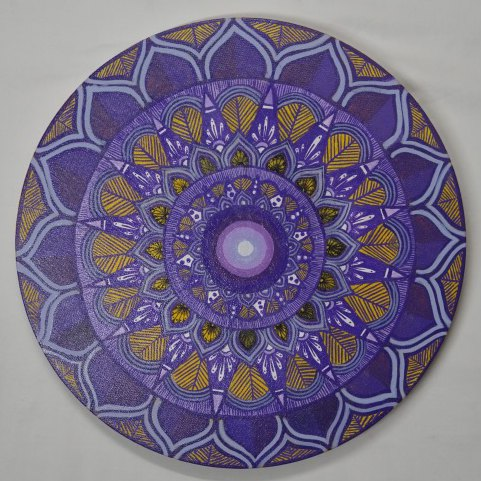
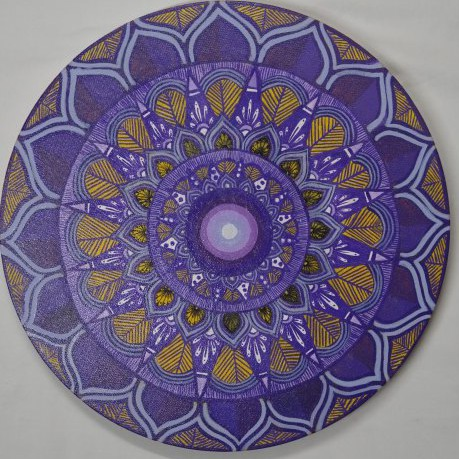
Gallery: trim white/grey margins from images, tighter frames, bigger zoom view, 3+3 art rows

diff --git a/index.html b/index.html
@@ -126,13 +126,13 @@
         <p class="gallery__intro">Through my paintings, I weave dreams into reality and transform emotions into art, expressing what words cannot. Charcoal, acrylic, watercolor and gouache; colour as a language, and mandalas as meditation.</p>
         <div class="g-row" role="list">
           <button type="button" style="--ar:1.000" class="g-item g-round" data-group="art" data-cap="Mandala" data-desc="Mandalas are my form of meditation: a symbol of unity and the circle of life." aria-label="View larger: Mandala"><img src="assets/gallery/mandala-disc.jpg" alt="Mandala on a round panel" loading="lazy" /></button>
-          <button type="button" style="--ar:0.509" class="g-item" data-group="art" data-cap="Mandalas, colour-blocked" data-desc="Contrasting patterns stand for the countless paths we take, which together make one emotional journey." aria-label="View larger: Mandalas, colour-blocked"><img src="assets/gallery/mandala-canvas.jpg" alt="Mandalas on a colour-blocked canvas" loading="lazy" /></button>
+          <button type="button" style="--ar:0.496" class="g-item" data-group="art" data-cap="Mandalas, colour-blocked" data-desc="Contrasting patterns stand for the countless paths we take, which together make one emotional journey." aria-label="View larger: Mandalas, colour-blocked"><img src="assets/gallery/mandala-canvas.jpg" alt="Mandalas on a colour-blocked canvas" loading="lazy" /></button>
           <button type="button" style="--ar:1.344" class="g-item" data-group="art" data-cap="Abstract in blue and gold" data-desc="Colour as a language for emotion. Blue stands for tranquility." aria-label="View larger: Abstract in blue and gold"><img src="assets/gallery/abstract-blue-gold.jpg" alt="Abstract painting in blue, grey and gold" loading="lazy" /></button>
-          <button type="button" style="--ar:0.790" class="g-item" data-group="art" data-cap="Vortex" data-desc="Tranquility in blue, pulled into a spiral." aria-label="View larger: Vortex"><img src="assets/gallery/vortex.jpg" alt="Abstract blue vortex painting" loading="lazy" /></button>
         </div>
         <div class="g-row" role="list">
-          <button type="button" style="--ar:0.705" class="g-item" data-group="art" data-cap="Tapasya" data-desc="Charcoal. A happy girl drawn in black and white, to show the contrast between outward appearance and inner emotion." aria-label="View larger: Tapasya"><img src="assets/gallery/tapasya.jpg" alt="Charcoal portrait of a girl squinting and smiling" loading="lazy" /></button>
-          <button type="button" style="--ar:0.765" class="g-item" data-group="art" data-cap="Wall of Faces" data-desc="Inspired by Ruth Asawa’s Wall of Faces at the Cantor Arts Center: a series on how differently each of us experiences emotion." aria-label="View larger: Wall of Faces"><img src="assets/gallery/wall-of-faces.jpg" alt="A wall of faces in charcoal" loading="lazy" /></button>
+          <button type="button" style="--ar:0.790" class="g-item" data-group="art" data-cap="Vortex" data-desc="Tranquility in blue, pulled into a spiral." aria-label="View larger: Vortex"><img src="assets/gallery/vortex.jpg" alt="Abstract blue vortex painting" loading="lazy" /></button>
+          <button type="button" style="--ar:0.742" class="g-item" data-group="art" data-cap="Tapasya" data-desc="Charcoal. A happy girl drawn in black and white, to show the contrast between outward appearance and inner emotion." aria-label="View larger: Tapasya"><img src="assets/gallery/tapasya.jpg" alt="Charcoal portrait of a girl squinting and smiling" loading="lazy" /></button>
+          <button type="button" style="--ar:0.744" class="g-item" data-group="art" data-cap="Wall of Faces" data-desc="Inspired by Ruth Asawa’s Wall of Faces at the Cantor Arts Center: a series on how differently each of us experiences emotion." aria-label="View larger: Wall of Faces"><img src="assets/gallery/wall-of-faces.jpg" alt="A wall of faces in charcoal" loading="lazy" /></button>
         </div>
       </div>
       <div class="gallery__block reveal">

diff --git a/home.css b/home.css
@@ -43,20 +43,20 @@
 .gallery__intro { max-width: 62ch; margin: -.4rem 0 1.4rem; font-size: 1.02rem; line-height: 1.6; }
 .g-row { display: flex; gap: clamp(.6rem, 1.4vw, 1.1rem); align-items: flex-end; }
 .g-row + .g-row { margin-top: clamp(.6rem, 1.4vw, 1.1rem); }
-.g-item { flex: var(--ar) 1 0; min-width: 0; padding: 6px; border: 1px solid var(--line); background: var(--paper); border-radius: 3px; cursor: zoom-in; transition: transform .35s var(--ease), box-shadow .35s var(--ease); }
+.g-item { flex: var(--ar) 1 0; min-width: 0; padding: 3px; border: 1px solid var(--line); background: var(--paper); border-radius: 3px; cursor: zoom-in; transition: transform .35s var(--ease), box-shadow .35s var(--ease); }
 .g-item img { display: block; width: 100%; height: auto; }
 .g-item:hover, .g-item:focus-visible { transform: translateY(-6px); box-shadow: 0 26px 32px -18px rgba(60,30,15,.45); }
 .g-item:focus-visible { outline: 2px solid var(--claret); outline-offset: 3px; }
-.g-item.g-round { border-radius: 50%; } .g-item.g-round img { border-radius: 50%; aspect-ratio: 1; object-fit: cover; }
+.g-item.g-round { border-radius: 50%; padding: 3px; } .g-item.g-round img { border-radius: 50%; aspect-ratio: 1; object-fit: cover; }
 .g-row--one .g-item { flex: 0 1 auto; width: min(100%, 340px); }
-@media (max-width: 760px) { .g-row { display: grid; grid-template-columns: repeat(2, 1fr); align-items: end; } .g-item { flex: none; padding: 4px; } .g-row--one { display: flex; } }
+@media (max-width: 760px) { .g-row { display: grid; grid-template-columns: repeat(2, 1fr); align-items: end; } .g-item { flex: none; padding: 3px; } .g-row--one { display: flex; } }
 
 /* ---------- Lightbox ---------- */
-.lightbox { position: fixed; inset: 0; z-index: 400; display: grid; place-items: center; background: rgba(223,191,160,.97); backdrop-filter: blur(10px); padding: 3rem 4.5rem; }
+.lightbox { position: fixed; inset: 0; z-index: 400; display: grid; place-items: center; background: rgba(223,191,160,.97); backdrop-filter: blur(10px); padding: 1.2rem 4.5rem; }
 .lightbox[hidden] { display: none; }
 .lightbox__fig { margin: 0; text-align: center; max-width: 100%; }
-.lightbox__fig img { max-width: 100%; max-height: calc(100vh - 9rem); width: auto; height: auto; box-shadow: 0 30px 60px -30px rgba(60,30,15,.5); background: var(--paper); padding: 8px; border-radius: 3px; }
-.lightbox__fig figcaption { margin: 1rem auto 0; max-width: 56ch; }
+.lightbox__fig img { max-width: 100%; max-height: calc(100vh - 6.5rem); width: auto; height: auto; box-shadow: 0 30px 60px -30px rgba(60,30,15,.5); background: var(--paper); padding: 5px; border-radius: 4px; }
+.lightbox__fig figcaption { margin: .6rem auto 0; max-width: 56ch; }
 .lightbox__fig figcaption b { display: block; font-family: var(--display); font-weight: 400; font-size: 1.5rem; letter-spacing: -.01em; }
 .lightbox__fig figcaption span { display: block; margin-top: .35rem; font-size: .95rem; line-height: 1.5; }
 .lightbox__close { position: fixed; top: 14px; right: 18px; width: 44px; height: 44px; border-radius: 50%; border: 1px solid var(--line); background: var(--paper); font-size: 1.6rem; line-height: 1; cursor: pointer; color: var(--ink); }
@@ -64,4 +64,4 @@
 .arrow-btn--l { left: 14px; } .arrow-btn--r { right: 14px; }
 .arrow-btn:not(:disabled):hover { background: var(--claret); color: #fff; transform: translateY(-50%) scale(1.08); }
 .arrow-btn:disabled { opacity: .25; cursor: default; }
-@media (max-width: 760px) { .lightbox { padding: 4rem 1rem 3rem; } .lightbox .arrow-btn { display: none; } }
+@media (max-width: 760px) { .lightbox { padding: 3.6rem .6rem 1.5rem; } .lightbox .arrow-btn { display: none; } }
